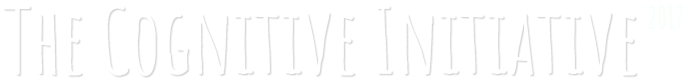
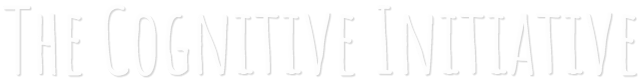
edit page for 2018

diff --git a/src/components/Header.vue b/src/components/Header.vue
@@ -25,7 +25,7 @@
         <!-- Add the modifier "is-active" to display it on mobile -->
         <div class="nav-right nav-menu">
             <router-link :to="{ name: 'HomePage' }" class="nav-item is-tab"><a @click="handleLinkClick">Home</a></router-link>
-            <router-link :to="{ name: 'Cog2017Page' }" class="nav-item is-tab"><a @click="handleLinkClick">Cog2017</a></router-link>
+            <router-link :to="{ name: 'Cog2017Page' }" class="nav-item is-tab"><a @click="handleLinkClick">The Cognitive Initiative <sup><small>2018</small></sup></sup></a></router-link>
             <!-- <router-link :to="{ name: 'AllProjectsList' }" class="nav-item is-tab"><a @click="handleLinkClick">Projects</a></router-link> -->
             <router-link :to="{ name: 'AboutPage' }" class="nav-item is-tab"><a @click="handleLinkClick">About</a></router-link>
             <router-link :to="{ name: 'ContactPage' }" class="nav-item is-tab"><a @click="handleLinkClick">Contact</a></router-link>

diff --git a/src/pages/Cog2017Page/Cog2017Page.vue b/src/pages/Cog2017Page/Cog2017Page.vue
@@ -14,6 +14,11 @@
                       performers to teach students who are at-risk of failing.
                   </small>
               </h2>
+            
+              <a href="https://form.jotformz.com/71105704463651" target="_blank" class="button is-primary is-large">Volunteer</a>
+                <div class="cog-hero__start-date">
+                    <div>Starts July 2018</div>
+                </div>  
             </div>
           </div>
         </section>

diff --git a/src/components/CogPartial/CogPartial.vue b/src/components/CogPartial/CogPartial.vue
@@ -12,7 +12,7 @@
 
             <div class="cog-hero__start-date">
                 <div>
-                    Starts August 2017
+                    Starts July 2018
                 </div>
             </div>
 
